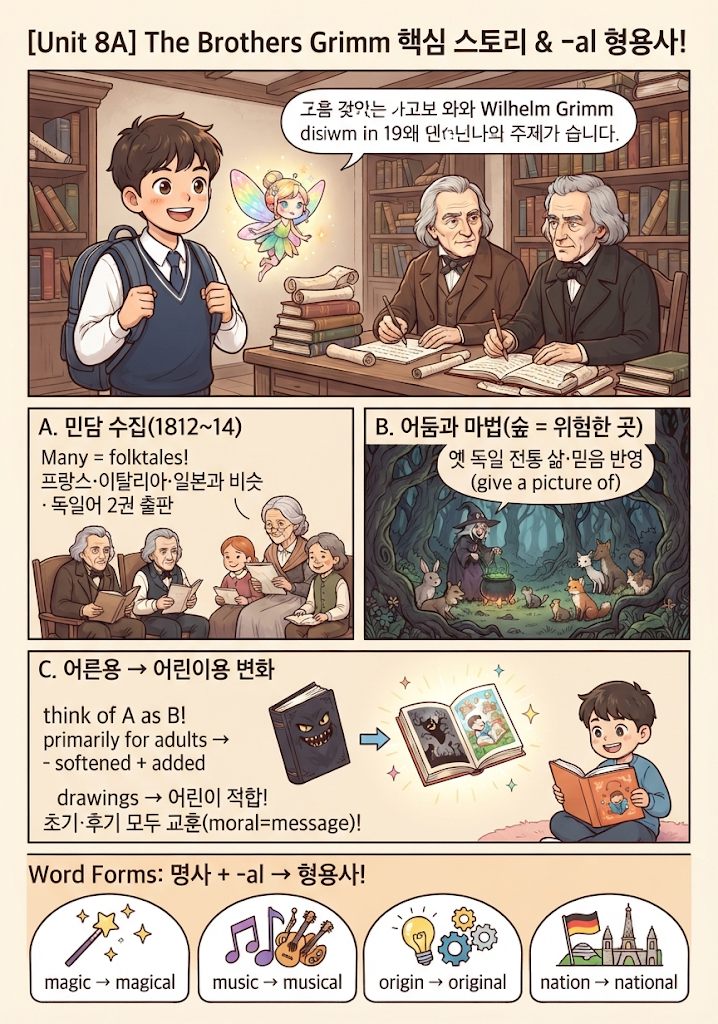
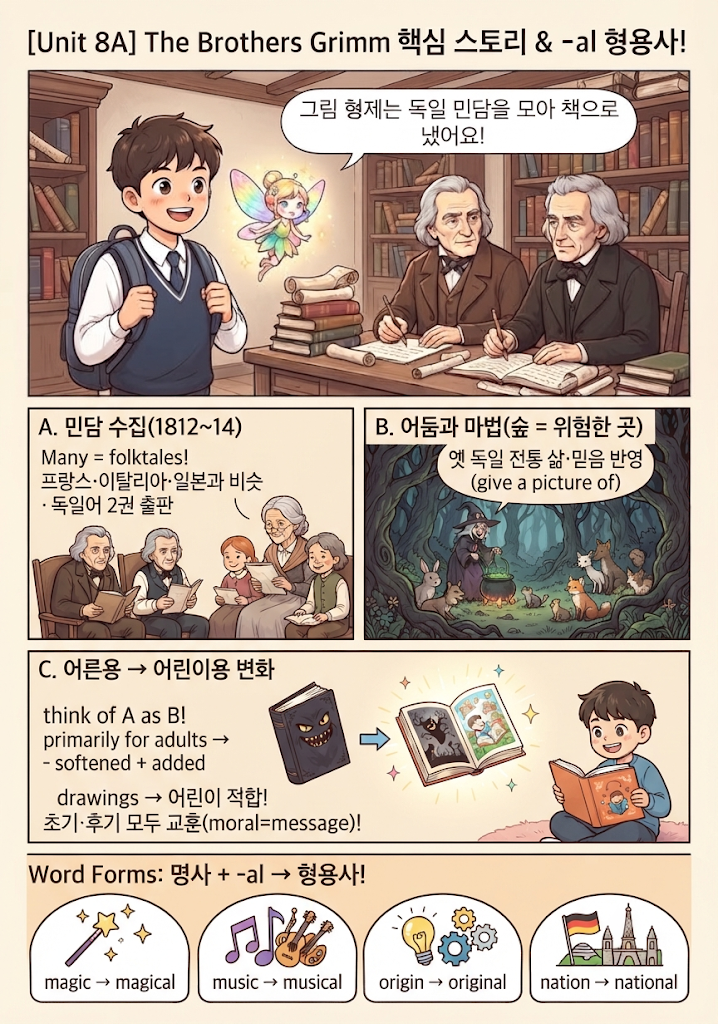
영어 Unit 8A 웹툰: 깨진 말풍선 한글 수정

diff --git a/app.js b/app.js
@@ -7,19 +7,19 @@
  * 화면 주소는 #/ , #/s/<과목 코드> , #/s/<과목 코드>/<문서 번호> 셋이다.
  */
 
-import { renderMarkdown, headingKey } from './markdown.js?v=20261123-2108';
-import { el } from './dom.js?v=20261123-2108';
-import { renderSolveRoute, renderHistory } from './solve.js?v=20261123-2108';
-import { renderUnitsRoute } from './units.js?v=20261123-2108';
-import { renderAssessRoute } from './assess.js?v=20261123-2108';
-import { renderWrongbook } from './wrongbook.js?v=20261123-2108';
-import { renderBoard } from './board.js?v=20261123-2108';
-import { renderCharacterSelect, refreshProfiles, avatar } from './characters.js?v=20261123-2108';
-import { loadStudy } from './study.js?v=20261123-2108';
-import { renderPrint, printLinks } from './print.js?v=20261123-2108';
-import { ring, conceptLegend, renderNotes } from './notes.js?v=20261123-2108';
-import { saveRecords, getCurrentLearner, setCurrentLearner, addLearner, subscribeCloud, getSyncStatus } from './store.js?v=20261123-2108';
-import { dday, CONCEPT_LABEL } from './progress.mjs?v=20261123-2108';
+import { renderMarkdown, headingKey } from './markdown.js?v=20261123-2119';
+import { el } from './dom.js?v=20261123-2119';
+import { renderSolveRoute, renderHistory } from './solve.js?v=20261123-2119';
+import { renderUnitsRoute } from './units.js?v=20261123-2119';
+import { renderAssessRoute } from './assess.js?v=20261123-2119';
+import { renderWrongbook } from './wrongbook.js?v=20261123-2119';
+import { renderBoard } from './board.js?v=20261123-2119';
+import { renderCharacterSelect, refreshProfiles, avatar } from './characters.js?v=20261123-2119';
+import { loadStudy } from './study.js?v=20261123-2119';
+import { renderPrint, printLinks } from './print.js?v=20261123-2119';
+import { ring, conceptLegend, renderNotes } from './notes.js?v=20261123-2119';
+import { saveRecords, getCurrentLearner, setCurrentLearner, addLearner, subscribeCloud, getSyncStatus } from './store.js?v=20261123-2119';
+import { dday, CONCEPT_LABEL } from './progress.mjs?v=20261123-2119';
 
 const app = document.getElementById('app');
 const navLinks = document.getElementById('nav-links');

diff --git a/solve.js b/solve.js
@@ -9,11 +9,11 @@
  * 입력이 있는 화면(실전)은 통째로 다시 그리지 않고 바뀐 곳만 고친다 — 쓰던 답이 날아가지 않게.
  */
 
-import { el, newId, CIRCLED, plainStem } from './dom.js?v=20261123-2108';
-import { renderMarkdown } from './markdown.js?v=20261123-2108';
-import { saveRecords, loadRecords, getCurrentLearner } from './store.js?v=20261123-2108';
-import { loadPaper } from './study.js?v=20261123-2108';
-import { buildHistories, wrongNotes, localDay } from './progress.mjs?v=20261123-2108';
+import { el, newId, CIRCLED, plainStem } from './dom.js?v=20261123-2119';
+import { renderMarkdown } from './markdown.js?v=20261123-2119';
+import { saveRecords, loadRecords, getCurrentLearner } from './store.js?v=20261123-2119';
+import { loadPaper } from './study.js?v=20261123-2119';
+import { buildHistories, wrongNotes, localDay } from './progress.mjs?v=20261123-2119';
 import {
   CONFIDENCE_LABEL,
   ERROR_LABEL,
@@ -28,7 +28,7 @@ import {
   formatDuration,
   formatClock,
   round1,
-} from './grade.mjs?v=20261123-2108';
+} from './grade.mjs?v=20261123-2119';
 
 const MODE_LABEL = { practice: '연습', exam: '실전', review: '복습', assess: '평가' };
 const STATE_MARK = { correct: '○', wrong: '×', partial: '△', pending: '…', blank: '–' };

diff --git a/index.html b/index.html
@@ -8,7 +8,7 @@
   <link rel="icon" href="data:,">
   <link rel="stylesheet" href="vendor/katex.min.css">
   <link rel="stylesheet" href="https://cdn.jsdelivr.net/npm/galmuri@latest/dist/galmuri.css">
-  <link rel="stylesheet" href="styles.css?v=20261123-2108">
+  <link rel="stylesheet" href="styles.css?v=20261123-2119">
 </head>
 <body>
   <header class="nav" id="nav">
@@ -36,7 +36,7 @@
   <script>
     /* 새 버전이 올라왔는데 브라우저가 예전 index.html 을 쓰고 있으면 한 번 새로 불러온다 */
     (function () {
-      var mine = '?v=20261123-2108';
+      var mine = '?v=20261123-2119';
       fetch('version.json', { cache: 'no-store' }).then(function (r) { return r.ok ? r.json() : null; }).then(function (j) {
         if (!j || '?v=' + j.v === mine) return;
         var key = 'reloaded-for-' + j.v;
@@ -48,6 +48,6 @@
   </script>
   <script src="vendor/markdown-it.min.js"></script>
   <script src="vendor/katex.min.js"></script>
-  <script type="module" src="app.js?v=20261123-2108"></script>
+  <script type="module" src="app.js?v=20261123-2119"></script>
 </body>
 </html>

diff --git a/assess.js b/assess.js
@@ -10,11 +10,11 @@
  * 점수는 과목·회차마다 「처음 응시한 것」으로 센다 — 진단은 한 번이 의미가 있으므로.
  */
 
-import { el, newId } from './dom.js?v=20261123-2108';
-import { loadRecords, getCurrentLearner, getSavedLearners, setCurrentLearner } from './store.js?v=20261123-2108';
-import { mergeRecords, recordLearner, listLearners, summarize } from './grade.mjs?v=20261123-2108';
-import { runExam, renderResult, readExamState } from './solve.js?v=20261123-2108';
-import { avatar } from './characters.js?v=20261123-2108';
+import { el, newId } from './dom.js?v=20261123-2119';
+import { loadRecords, getCurrentLearner, getSavedLearners, setCurrentLearner } from './store.js?v=20261123-2119';
+import { mergeRecords, recordLearner, listLearners, summarize } from './grade.mjs?v=20261123-2119';
+import { runExam, renderResult, readExamState } from './solve.js?v=20261123-2119';
+import { avatar } from './characters.js?v=20261123-2119';
 
 export const ROUNDS = [
   { id: 'd1', n: 1, title: '1차 진단평가', short: '1차', note: '지금 실력을 재는 첫 시험' },

diff --git a/wrongbook.js b/wrongbook.js
@@ -5,12 +5,12 @@
  * 문제마다 「질문하기」를 누르면 질문 게시판에 그 문제를 붙여 글을 쓴다.
  */
 
-import { el, plainStem } from './dom.js?v=20261123-2108';
-import { md, contextBlock, passageBlock, choiceList, answerText } from './solve.js?v=20261123-2108';
-import { ERROR_LABEL, CONFIDENCE_LABEL } from './grade.mjs?v=20261123-2108';
-import { STATUS_LABEL } from './notes.js?v=20261123-2108';
-import { unitWrongs } from './units.js?v=20261123-2108';
-import { assessWrongs } from './assess.js?v=20261123-2108';
+import { el, plainStem } from './dom.js?v=20261123-2119';
+import { md, contextBlock, passageBlock, choiceList, answerText } from './solve.js?v=20261123-2119';
+import { ERROR_LABEL, CONFIDENCE_LABEL } from './grade.mjs?v=20261123-2119';
+import { STATUS_LABEL } from './notes.js?v=20261123-2119';
+import { unitWrongs } from './units.js?v=20261123-2119';
+import { assessWrongs } from './assess.js?v=20261123-2119';
 
 const FILTERS = [
   ['all', '전체'],

diff --git a/units.js b/units.js
@@ -12,10 +12,10 @@
  *       단원 평가는 몇 번이든 다시 볼 수 있고, 카드에는 첫 점수 · 최고 점수 · 최근 점수를 보여 준다.
  */
 
-import { el, newId } from './dom.js?v=20261123-2108';
-import { loadRecords, getCurrentLearner, getSavedLearners } from './store.js?v=20261123-2108';
-import { mergeRecords, recordLearner, listLearners, summarize } from './grade.mjs?v=20261123-2108';
-import { runExam, renderResult, readExamState } from './solve.js?v=20261123-2108';
+import { el, newId } from './dom.js?v=20261123-2119';
+import { loadRecords, getCurrentLearner, getSavedLearners } from './store.js?v=20261123-2119';
+import { mergeRecords, recordLearner, listLearners, summarize } from './grade.mjs?v=20261123-2119';
+import { runExam, renderResult, readExamState } from './solve.js?v=20261123-2119';
 
 const ROUND_BASE = 10;
 const unitNo = (id) => Number(String(id).replace(/^u/, ''));

diff --git a/store.js b/store.js
@@ -5,8 +5,8 @@
 import { initializeApp } from 'https://www.gstatic.com/firebasejs/11.10.0/firebase-app.js';
 import { getAuth, signInAnonymously } from 'https://www.gstatic.com/firebasejs/11.10.0/firebase-auth.js';
 import { getFirestore, collection, doc, setDoc, addDoc, writeBatch, onSnapshot, deleteDoc, updateDoc } from 'https://www.gstatic.com/firebasejs/11.10.0/firebase-firestore.js';
-import { FIREBASE_CONFIG, FIRESTORE_DATABASE_ID, EXAM_ID } from './firebase-config.js?v=20261123-2108';
-import { DEFAULT_LEARNER, normalizeLearner } from './grade.mjs?v=20261123-2108';
+import { FIREBASE_CONFIG, FIRESTORE_DATABASE_ID, EXAM_ID } from './firebase-config.js?v=20261123-2119';
+import { DEFAULT_LEARNER, normalizeLearner } from './grade.mjs?v=20261123-2119';
 
 export { DEFAULT_LEARNER, normalizeLearner };
 

diff --git a/notes.js b/notes.js
@@ -3,10 +3,10 @@
  *   #/s/<과목>/notes   틀린 문제 모음, 복습 차례, 틀린 까닭 분포
  */
 
-import { el, plainStem } from './dom.js?v=20261123-2108';
-import { md, contextBlock, passageBlock, choiceList, answerText, renderHistory } from './solve.js?v=20261123-2108';
-import { ERROR_LABEL } from './grade.mjs?v=20261123-2108';
-import { errorBreakdown, CONCEPT_LABEL } from './progress.mjs?v=20261123-2108';
+import { el, plainStem } from './dom.js?v=20261123-2119';
+import { md, contextBlock, passageBlock, choiceList, answerText, renderHistory } from './solve.js?v=20261123-2119';
+import { ERROR_LABEL } from './grade.mjs?v=20261123-2119';
+import { errorBreakdown, CONCEPT_LABEL } from './progress.mjs?v=20261123-2119';
 
 const SVG = 'http://www.w3.org/2000/svg';
 function svg(tag, attrs) {

diff --git a/print.js b/print.js
@@ -11,10 +11,10 @@
  * 인쇄할 때는 위쪽 막대와 단추가 사라지고 종이만 남는다 (styles.css 의 @media print).
  */
 
-import { el, CIRCLED } from './dom.js?v=20261123-2108';
-import { renderMarkdown } from './markdown.js?v=20261123-2108';
-import { loadPaper } from './study.js?v=20261123-2108';
-import { ERROR_LABEL } from './grade.mjs?v=20261123-2108';
+import { el, CIRCLED } from './dom.js?v=20261123-2119';
+import { renderMarkdown } from './markdown.js?v=20261123-2119';
+import { loadPaper } from './study.js?v=20261123-2119';
+import { ERROR_LABEL } from './grade.mjs?v=20261123-2119';
 
 const KINDS = { paper: '문제지', answers: '정답 및 해설', omr: '답안 표시판', notes: '오답 노트', summary: '요약본' };
 

diff --git a/study.js b/study.js
@@ -4,9 +4,9 @@
  * 화면을 열 때마다 새로 읽는다 — 다른 기기에서 푼 것도 바로 보이게.
  */
 
-import { loadRecords, getCurrentLearner, getSavedLearners, DEFAULT_LEARNER } from './store.js?v=20261123-2108';
-import { mergeRecordsForLearner, listLearners } from './grade.mjs?v=20261123-2108';
-import { buildHistories, subjectStudy, localDay } from './progress.mjs?v=20261123-2108';
+import { loadRecords, getCurrentLearner, getSavedLearners, DEFAULT_LEARNER } from './store.js?v=20261123-2119';
+import { mergeRecordsForLearner, listLearners } from './grade.mjs?v=20261123-2119';
+import { buildHistories, subjectStudy, localDay } from './progress.mjs?v=20261123-2119';
 
 const paperCache = new Map();
 

diff --git a/characters.js b/characters.js
@@ -6,9 +6,9 @@
  * 그림 파일: assets/characters/c01.webp … c10.webp. 아직 없으면 도트 얼굴(빈칸 그림)을 대신 보여 준다.
  */
 
-import { el } from './dom.js?v=20261123-2108';
-import { loadRecords, saveRecords, getCurrentLearner } from './store.js?v=20261123-2108';
-import { recordLearner } from './grade.mjs?v=20261123-2108';
+import { el } from './dom.js?v=20261123-2119';
+import { loadRecords, saveRecords, getCurrentLearner } from './store.js?v=20261123-2119';
+import { recordLearner } from './grade.mjs?v=20261123-2119';
 
 export const CHARACTERS = [
   { id: 'c01', name: '탐험가 하루', role: '모험 · 지리', color: '#e0a030', line: '지도만 있으면 어디든 간다!' },

diff --git a/board.js b/board.js
@@ -7,9 +7,9 @@
  * 「해결됨」 표시는 누구나 바꿀 수 있다.
  */
 
-import { el } from './dom.js?v=20261123-2108';
-import { getCurrentLearner, subscribePosts, addPost, setPostSolved, deletePost } from './store.js?v=20261123-2108';
-import { avatar } from './characters.js?v=20261123-2108';
+import { el } from './dom.js?v=20261123-2119';
+import { getCurrentLearner, subscribePosts, addPost, setPostSolved, deletePost } from './store.js?v=20261123-2119';
+import { avatar } from './characters.js?v=20261123-2119';
 
 const VIEWS = [
   ['open', '답을 기다리는 질문'],
